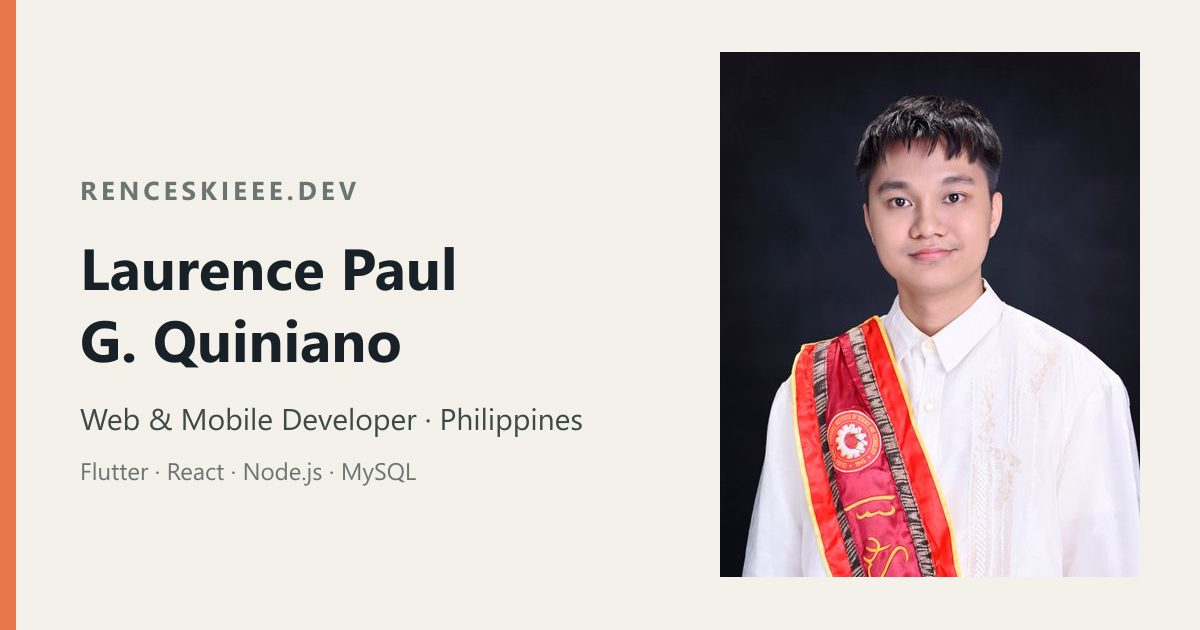
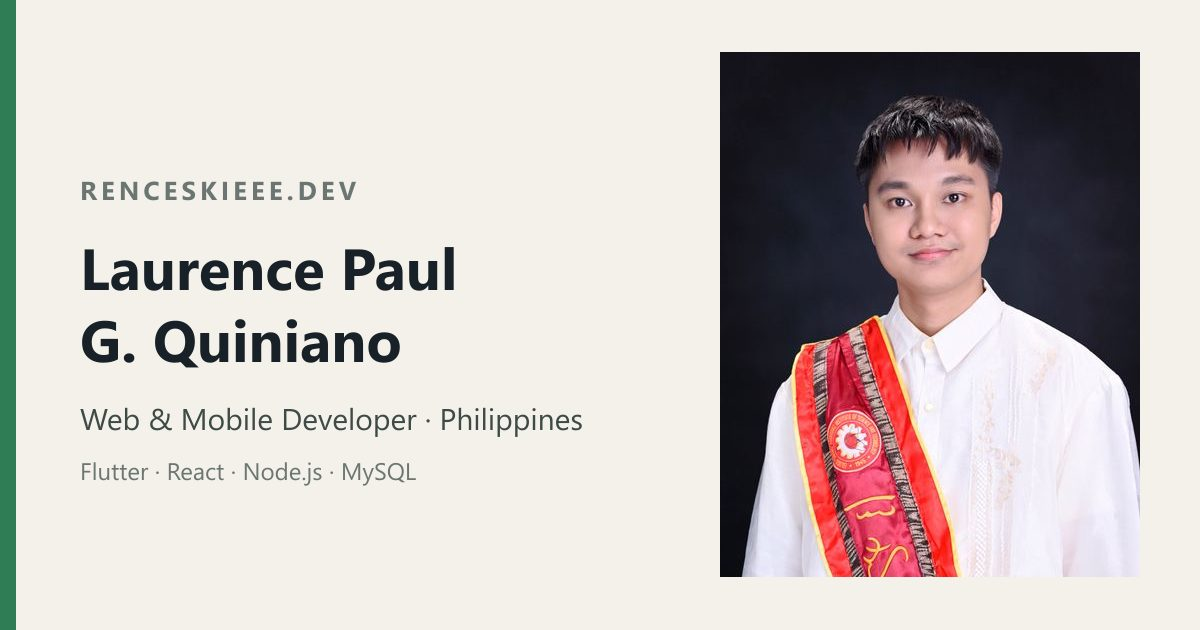
description update

Changed region(s): [[0.0, 0.0, 0.0308, 1.0]]

diff --git a/index.html b/index.html
@@ -16,14 +16,14 @@
     </script>
     <meta name="google-site-verification" content="sPp_TaTsUMmbUsxikgZh6AxbG1l3m3sPKCjCnGWLB4o" />
     <title>Laurence Paul Quiniano | Web &amp; Mobile Developer – Philippines</title>
-    <meta name="description" content="Portfolio of Laurence Paul G. Quiniano, a Magna Cum Laude BSIT graduate from EARIST building web and mobile apps with Flutter, React, Node.js and MySQL." />
+    <meta name="description" content="Portfolio of Laurence Paul G. Quiniano, a programmer and Magna Cum Laude BSIT graduate from EARIST building web, mobile and desktop apps with Flutter, React, Node.js, Electron and MySQL." />
     <meta name="author" content="Laurence Paul G. Quiniano" />
     <meta name="robots" content="index, follow" />
     <link rel="canonical" href="https://renceskieee.dev/" />
     <meta property="og:type" content="website" />
     <meta property="og:site_name" content="Laurence Paul Quiniano" />
     <meta property="og:title" content="Laurence Paul Quiniano | Web &amp; Mobile Developer – Philippines" />
-    <meta property="og:description" content="Portfolio of Laurence Paul G. Quiniano, a Magna Cum Laude BSIT graduate from EARIST building web and mobile apps with Flutter, React, Node.js and MySQL." />
+    <meta property="og:description" content="Portfolio of Laurence Paul G. Quiniano, a programmer and Magna Cum Laude BSIT graduate from EARIST building web, mobile and desktop apps with Flutter, React, Node.js, Electron and MySQL." />
     <meta property="og:url" content="https://renceskieee.dev/" />
     <meta property="og:image" content="https://renceskieee.dev/assets/images/og-cover.jpg" />
     <meta property="og:image:width" content="1200" />
@@ -32,7 +32,7 @@
     <meta property="og:locale" content="en_PH" />
     <meta name="twitter:card" content="summary_large_image" />
     <meta name="twitter:title" content="Laurence Paul Quiniano | Web &amp; Mobile Developer – Philippines" />
-    <meta name="twitter:description" content="Portfolio of Laurence Paul G. Quiniano, a Magna Cum Laude BSIT graduate from EARIST building web and mobile apps with Flutter, React, Node.js and MySQL." />
+    <meta name="twitter:description" content="Portfolio of Laurence Paul G. Quiniano, a programmer and Magna Cum Laude BSIT graduate from EARIST building web, mobile and desktop apps with Flutter, React, Node.js, Electron and MySQL." />
     <meta name="twitter:image" content="https://renceskieee.dev/assets/images/og-cover.jpg" />
     <link rel="icon" href="favicon.ico" sizes="any" />
     <link rel="icon" type="image/png" sizes="32x32" href="assets/images/icons/favicon-32.png" />
@@ -41,7 +41,7 @@
     <link rel="preconnect" href="https://fonts.googleapis.com" />
     <link rel="preconnect" href="https://fonts.gstatic.com" crossorigin />
     <link
-      href="https://fonts.googleapis.com/css2?family=Poppins:wght@400;500;600;700;800&display=swap"
+      href="https://fonts.googleapis.com/css2?family=Poppins:wght@400;500;600;700&display=swap"
       rel="stylesheet"
     />
     <link rel="stylesheet" href="assets/css/style.css" />
@@ -85,6 +85,7 @@
               "React",
               "JavaScript",
               "Node.js",
+              "Electron",
               "MySQL",
               "Firebase"
             ],
@@ -176,12 +177,12 @@
         <section class="home-page page-section">
           <div class="hero-grid">
             <div class="hero-copy reveal">
-              <p class="eyebrow"><span></span> Available for opportunities</p>
+              <p class="eyebrow"><span></span> Open to side projects &amp; collaborations</p>
               <h1>Turning ideas into <em>useful</em> digital experiences.</h1>
               <p class="hero-text">
-                I'm <strong>Laurence Paul G. Quiniano</strong>, an IT graduate
-                passionate about creating thoughtful software, web platforms, and mobile
-                applications.
+                I'm <strong>Laurence Paul G. Quiniano</strong>, a programmer at the
+                Philippine Crop Insurance Corporation who builds thoughtful software,
+                web platforms, and mobile applications.
               </p>
               <div class="hero-actions">
                 <a class="button button-primary" href="projects.html"
@@ -226,8 +227,8 @@
               <b>4</b> projects across web, mobile &amp; desktop
             </p>
             <div class="skill-marquee">
-              <span>Web Development</span><i>✦</i><span>Mobile Apps</span><i>✦</i
-              ><span>Software Development</span>
+              <span>Web Development</span><i>✦</i><span>Mobile Development</span><i>✦</i
+              ><span>Desktop Development</span>
             </div>
           </div>
           <section class="skills-preview reveal">
@@ -239,17 +240,17 @@
               <article>
                 <span>01</span>
                 <h3>Web Development</h3>
-                <p>Responsive, accessible, and modern web experiences.</p>
+                <p>Admin and records platforms built with React, Node.js, and MySQL, like the EARIST HRIS.</p>
               </article>
               <article>
                 <span>02</span>
                 <h3>Mobile Development</h3>
-                <p>Purposeful applications for people on the move.</p>
+                <p>Flutter apps, from the AquaLex marine almanac to PCIC's approval tracker.</p>
               </article>
               <article>
                 <span>03</span>
-                <h3>Software Solutions</h3>
-                <p>Reliable systems designed around real-world needs.</p>
+                <h3>Desktop Development</h3>
+                <p>Electron systems that digitize local operations, like the SK Barangay Information System.</p>
               </article>
             </div>
           </section>

diff --git a/assets/css/style.css b/assets/css/style.css
@@ -4,7 +4,8 @@
   --paper: #f7f7f4;
   --white: #fff;
   --lime: #d7f76c;
-  --orange: #ff835d;
+  --accent: #2f7d55;
+  --on-accent: #f7f7f4;
   --blue: #b8dded;
   --line: #dce2df;
   --header: rgba(247, 247, 244, 0.9);
@@ -18,7 +19,8 @@ html[data-theme="dark"] {
   --paper: #111916;
   --white: #19241f;
   --lime: #d7f76c;
-  --orange: #ff9b79;
+  --accent: #8ad6a2;
+  --on-accent: #172127;
   --blue: #31515b;
   --line: #31423b;
   --header: rgba(17, 25, 22, 0.9);
@@ -114,7 +116,7 @@ textarea {
   width: 100%;
   height: 2px;
   border-radius: 2px;
-  background: var(--orange);
+  background: var(--accent);
   transform: scaleX(0);
   transform-origin: right;
   transition: transform 0.3s ease;
@@ -150,7 +152,7 @@ textarea {
 }
 .theme-toggle:hover {
   transform: rotate(12deg) scale(1.04);
-  border-color: var(--orange);
+  border-color: var(--accent);
   box-shadow: 0 5px 14px rgba(20, 35, 38, 0.12);
 }
 .theme-toggle:active {
@@ -158,7 +160,7 @@ textarea {
 }
 .theme-toggle:focus-visible,
 .menu-toggle:focus-visible {
-  outline: 2px solid var(--orange);
+  outline: 2px solid var(--accent);
   outline-offset: 3px;
 }
 .theme-toggle span {
@@ -221,8 +223,8 @@ html[data-theme="dark"] .theme-toggle .moon-icon {
 .header-cta:hover,
 .button:hover {
   transform: translateY(-3px);
-  background: var(--orange);
-  color: #172127;
+  background: var(--accent);
+  color: var(--on-accent);
 }
 .menu-toggle {
   display: none;
@@ -244,7 +246,7 @@ html[data-theme="dark"] .theme-toggle .moon-icon {
   width: 8px;
   height: 8px;
   border-radius: 50%;
-  background: var(--orange);
+  background: var(--accent);
   margin-right: 7px;
 }
 .page-heading h1,
@@ -310,7 +312,7 @@ html[data-theme="dark"] .theme-toggle .moon-icon {
 }
 .footer-links a:hover,
 .footer-links a:focus-visible {
-  color: var(--orange);
+  color: var(--accent);
 }
 .footer-links .contact-icon {
   width: 14px;

diff --git a/about.html b/about.html
@@ -39,7 +39,7 @@
     <link rel="preconnect" href="https://fonts.googleapis.com" />
     <link rel="preconnect" href="https://fonts.gstatic.com" crossorigin />
     <link
-      href="https://fonts.googleapis.com/css2?family=Poppins:wght@400;500;600;700;800&display=swap"
+      href="https://fonts.googleapis.com/css2?family=Poppins:wght@400;500;600;700&display=swap"
       rel="stylesheet"
     />
     <link rel="stylesheet" href="assets/css/style.css" />
@@ -84,6 +84,7 @@
             "React",
             "JavaScript",
             "Node.js",
+            "Electron",
             "MySQL",
             "Firebase"
           ],
@@ -166,8 +167,8 @@
             <p class="eyebrow">A little more about me</p>
             <h1>Grounded in learning,<br /><em>driven by building.</em></h1>
             <p>
-              I'm an aspiring technology professional who enjoys transforming complex
-              challenges into clear, useful digital products. I bring a focused,
+              I'm a programmer at the Philippine Crop Insurance Corporation who enjoys
+              transforming complex challenges into clear, useful digital products. I bring a focused,
               people-first mindset to every project.
             </p>
           </div>
@@ -240,7 +241,7 @@
               </article>
               <article>
                 <h3>Frameworks</h3>
-                <p>React, Flutter, and Node.js.</p>
+                <p>React, Flutter, Node.js, and Electron.</p>
               </article>
               <article>
                 <h3>Databases</h3>

diff --git a/projects.html b/projects.html
@@ -39,7 +39,7 @@
     <link rel="preconnect" href="https://fonts.googleapis.com" />
     <link rel="preconnect" href="https://fonts.gstatic.com" crossorigin />
     <link
-      href="https://fonts.googleapis.com/css2?family=Poppins:wght@400;500;600;700;800&display=swap"
+      href="https://fonts.googleapis.com/css2?family=Poppins:wght@400;500;600;700&display=swap"
       rel="stylesheet"
     />
     <link rel="stylesheet" href="assets/css/style.css" />
@@ -304,7 +304,7 @@
                   service delivery.
                 </p>
                 <div class="tags">
-                  <span>React</span><span>NodeJS</span><span>MySQL</span>
+                  <span>Electron</span><span>React</span><span>NodeJS</span><span>MySQL</span>
                 </div>
                 <!-- Hidden until each project has a details page:
                 <a href="contact.html" class="project-link">View Details <b>↗</b></a> -->

diff --git a/assets/css/contacts.css b/assets/css/contacts.css
@@ -23,7 +23,7 @@
 .email-link:focus-visible,
 .copy-button:focus-visible,
 .social-links a:focus-visible {
-  outline: 2px solid var(--orange);
+  outline: 2px solid var(--accent);
   outline-offset: 4px;
 }
 .contact-info {
@@ -75,7 +75,7 @@
     transform 0.2s ease;
 }
 .copy-button:hover {
-  color: var(--orange);
+  color: var(--accent);
   transform: scale(1.08);
 }
 .copy-button:active {
@@ -115,7 +115,7 @@
     transform 0.2s ease;
 }
 .social-links a:hover {
-  color: var(--orange);
+  color: var(--accent);
   transform: translateY(-2px);
 }
 .social-links .contact-icon {
@@ -148,7 +148,7 @@
 }
 .contact-form input:focus,
 .contact-form textarea:focus {
-  border-color: var(--orange);
+  border-color: var(--accent);
 }
 .contact-form textarea {
   resize: vertical;

diff --git a/assets/css/projects.css b/assets/css/projects.css
@@ -73,7 +73,7 @@
   letter-spacing: 0.1em;
 }
 .project-label span {
-  color: var(--orange);
+  color: var(--accent);
   font-weight: 700;
 }
 .project-label p {
@@ -205,9 +205,9 @@
 }
 .image-viewer-close:hover,
 .image-viewer-control:hover {
-  border-color: var(--orange);
-  background: var(--orange);
-  color: #172127;
+  border-color: var(--accent);
+  background: var(--accent);
+  color: var(--on-accent);
   transform: scale(1.06);
 }
 .image-viewer-close:focus-visible,

diff --git a/404.html b/404.html
@@ -22,7 +22,7 @@
     <link rel="preconnect" href="https://fonts.googleapis.com" />
     <link rel="preconnect" href="https://fonts.gstatic.com" crossorigin />
     <link
-      href="https://fonts.googleapis.com/css2?family=Poppins:wght@400;500;600;700;800&display=swap"
+      href="https://fonts.googleapis.com/css2?family=Poppins:wght@400;500;600;700&display=swap"
       rel="stylesheet"
     />
     <link rel="stylesheet" href="/assets/css/style.css" />

diff --git a/contact.html b/contact.html
@@ -39,7 +39,7 @@
     <link rel="preconnect" href="https://fonts.googleapis.com" />
     <link rel="preconnect" href="https://fonts.gstatic.com" crossorigin />
     <link
-      href="https://fonts.googleapis.com/css2?family=Poppins:wght@400;500;600;700;800&display=swap"
+      href="https://fonts.googleapis.com/css2?family=Poppins:wght@400;500;600;700&display=swap"
       rel="stylesheet"
     />
     <link rel="stylesheet" href="assets/css/style.css" />

diff --git a/assets/css/home.css b/assets/css/home.css
@@ -169,7 +169,7 @@
   text-align: right;
 }
 .skill-marquee i {
-  color: var(--orange);
+  color: var(--accent);
   font-style: normal;
 }
 .skills-preview {
@@ -197,7 +197,7 @@
   border-bottom: 1px solid var(--line);
 }
 .skill-list span {
-  color: var(--orange);
+  color: var(--accent);
   font-size: 11px;
 }
 .skill-list h3 {

diff --git a/assets/css/about.css b/assets/css/about.css
@@ -55,7 +55,7 @@
 }
 .timeline article span {
   font-size: 11px;
-  color: var(--orange);
+  color: var(--accent);
   padding-top: 21px;
 }
 .timeline h3,
